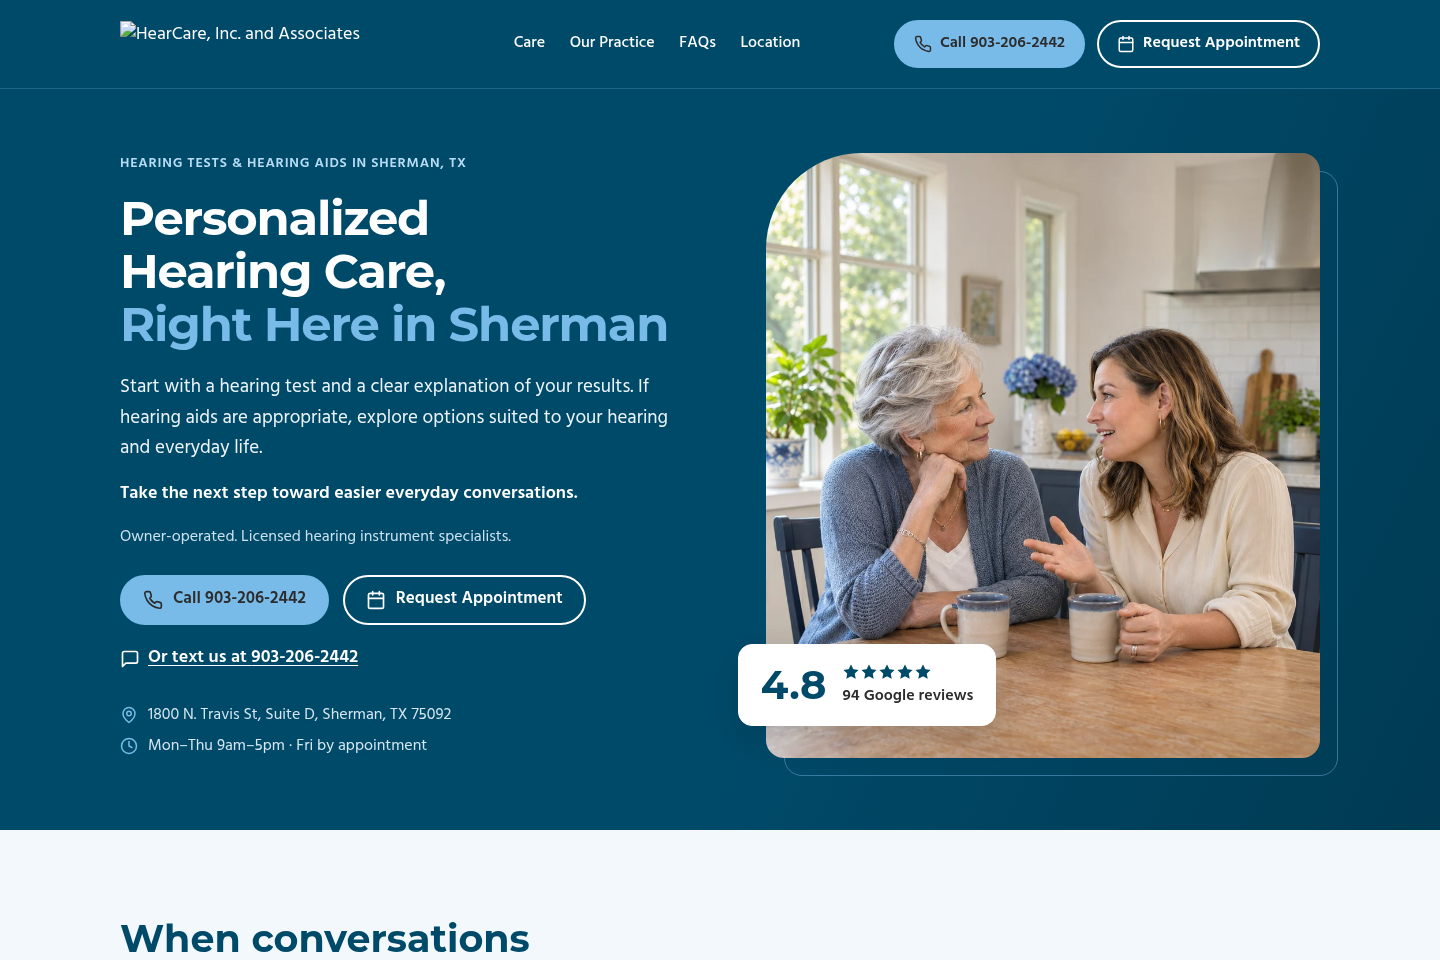
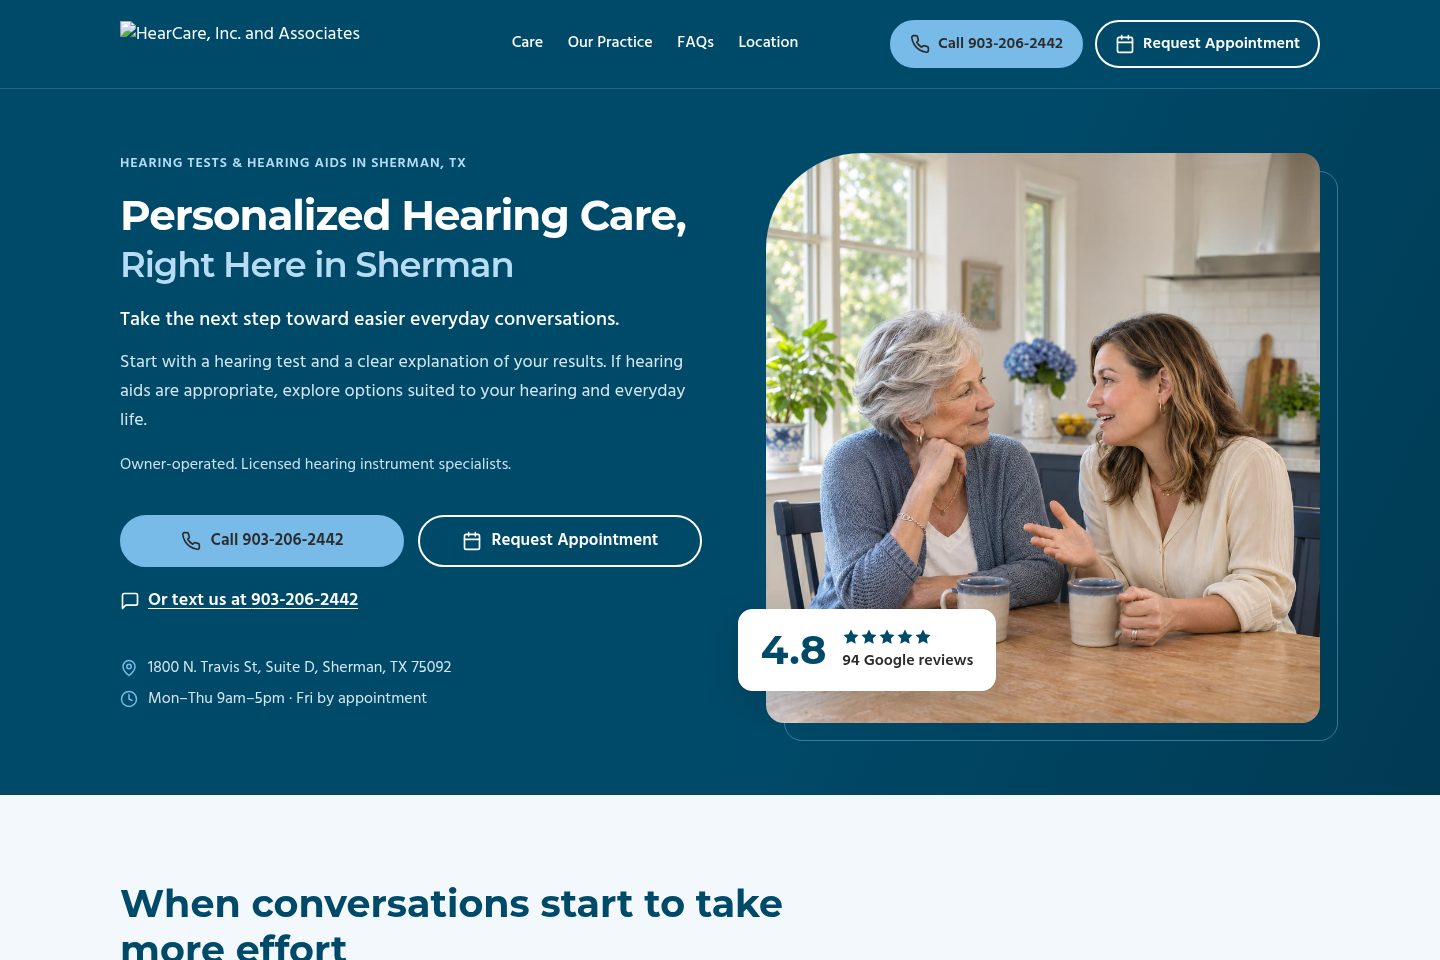
Refine heading hierarchy and align Hero and header actions

diff --git a/index.html b/index.html
@@ -85,7 +85,7 @@ body{
   color:var(--hc-ink); background:var(--hc-white);
 }
 img{ max-width:100%; height:auto; display:block; }
-h1,h2,h3{ font-family:var(--hc-head); color:var(--hc-navy); margin:0; text-wrap:balance; }
+h1,h2,h3{ font-family:var(--hc-head); color:var(--hc-navy); margin:0; text-wrap:wrap; }
 h1{ font-weight:700; font-size:clamp(2rem, 1.3rem + 2.6vw, 3.5rem); line-height:1.1; letter-spacing:-0.01em; }
 h2{ font-weight:700; font-size:clamp(1.625rem, 1.2rem + 1.4vw, 2.375rem); line-height:1.2; }
 h3{ font-weight:600; font-size:clamp(1.25rem, 1.1rem + .4vw, 1.4375rem); line-height:1.3; }
@@ -174,16 +174,20 @@ a:hover{ color:var(--hc-navy); }
 .hc-hero__grid{ display:grid; grid-template-columns:minmax(0,1.05fr) minmax(0,1fr); grid-template-areas:"copy media" "actions media" "facts media"; column-gap:64px; align-items:start; position:relative; }
 .hc-hero__text{ grid-area:copy; max-width:580px; }
 .hc-hero__eyebrow{ font-size:.875rem; line-height:1.5; font-weight:600; letter-spacing:.055em; text-transform:uppercase; color:#b7dcf5; }
-.hc-hero--split h1{ margin-top:18px; color:var(--hc-white); font-size:clamp(2.5rem,3.4vw,3rem); line-height:1.1; letter-spacing:-.025em; text-wrap:balance; }
-.hc-hero--split h1 span{ display:block; }
-.hc-hero--split .hc-hero__headline-local{ color:var(--hc-sky); }
-.hc-hero__lead{ margin-top:22px; font-size:1.1875rem; line-height:1.6; color:#edf5fa; }
-.hc-hero__benefit{ margin-top:16px; font-size:1.125rem; line-height:1.5; font-weight:600; color:var(--hc-white); }
+.hc-hero--split h1{ margin-top:18px; color:var(--hc-white); font-size:clamp(2rem,3vw,2.625rem); line-height:1.1; letter-spacing:-.025em; text-wrap:balance; }
+.hc-hero--split h1 > span{ display:block; }
+.hc-hero--split .hc-hero__headline-phrase{ white-space:nowrap; }
+.hc-hero--split .hc-hero__headline-local{ margin-top:8px; color:#b7dcf5; font-size:.84em; font-weight:600; }
+.hc-hero__lead{ margin-top:14px; font-size:1.125rem; line-height:1.6; color:#d6e7f1; }
+.hc-hero__benefit{ margin-top:20px; font-size:1.25rem; line-height:1.5; font-weight:500; color:var(--hc-white); }
 .hc-hero__trust{ margin-top:18px; font-size:1rem; line-height:1.5; color:#cce2ef; }
 .hc-hero__actions{ grid-area:actions; margin-top:26px; }
-.hc-hero--split .hc-btn{ border-radius:999px; min-height:50px; padding:12px 21px; }
-.hc-hero--split .hc-cta{ gap:12px 14px; }
-.hc-hero--split .hc-cta__text{ margin-top:0; }
+.hc-hero--split .hc-btn{ border-radius:999px; min-height:52px; padding:12px 16px; width:100%; text-align:center; }
+.hc-header .hc-btn,.hc-hero--split .hc-btn{ align-items:center; justify-content:center; }
+.hc-header .hc-btn > span,.hc-hero--split .hc-btn > span{ display:block; line-height:1.25; }
+.hc-header .hc-btn .hc-icon,.hc-hero--split .hc-btn .hc-icon{ width:20px; height:20px; display:block; flex:0 0 20px; }
+.hc-hero--split .hc-cta{ display:grid; grid-template-columns:repeat(2,minmax(0,1fr)); gap:12px 14px; }
+.hc-hero--split .hc-cta__text{ grid-column:1 / -1; margin-top:0; }
 .hc-hero--split .hc-textlink{ color:var(--hc-white); }
 .hc-hero--split .hc-textlink:hover{ color:var(--hc-sky); }
 .hc-hero--split :focus-visible{ outline:3px solid var(--hc-sky); outline-offset:4px; box-shadow:0 0 0 2px var(--hc-navy); }
@@ -199,7 +203,7 @@ a:hover{ color:var(--hc-navy); }
 .hc-badge__meta{ display:flex; flex-direction:column; gap:5px; font-size:1rem; line-height:1.3; }
 .hc-badge__meta strong{ font-weight:600; }
 .hc-badge__meta .hc-stars__base{ color:#c9d5dd; }
-@media (max-width:1199px) and (min-width:1024px){ .hc-hero__grid{ column-gap:42px; } .hc-hero--split h1{ font-size:2.75rem; } .hc-hero--split .hc-btn{ padding-inline:16px; } }
+@media (max-width:1199px) and (min-width:1024px){ .hc-hero__grid{ column-gap:42px; } .hc-hero--split h1{ font-size:clamp(2rem,3.25vw,2.5rem); } .hc-hero--split .hc-btn{ padding-inline:16px; } }
 @media (max-width:1023px){
   .hc-hero--split{ padding:44px 0 48px; }
   .hc-hero__grid{ grid-template-columns:minmax(0,1fr); grid-template-areas:"copy" "proof" "actions" "facts" "media"; }
@@ -220,11 +224,11 @@ a:hover{ color:var(--hc-navy); }
 @media (max-width:639px){
   .hc-hero--split{ padding:32px 0 36px; }
   .hc-hero__eyebrow{ letter-spacing:.025em; }
-  .hc-hero--split h1{ font-size:clamp(2rem,8.2vw,2.625rem); line-height:1.13; }
+  .hc-hero--split h1{ font-size:clamp(1.625rem,8.2vw,2.625rem); line-height:1.13; }
   .hc-hero__lead{ font-size:1.125rem; line-height:1.55; }
   .hc-hero__benefit{ font-size:1.0625rem; }
   .hc-hero__trust{ font-size:1rem; }
-  .hc-hero--split .hc-cta{ gap:10px; }
+  .hc-hero--split .hc-cta{ grid-template-columns:minmax(0,1fr); gap:10px; }
   .hc-hero--split .hc-btn{ white-space:normal; }
   .hc-hero--split .hc-textlink{ font-size:1rem; }
   .hc-facts{ font-size:1rem; }
@@ -514,9 +518,9 @@ a:hover{ color:var(--hc-navy); }
   <div class="hc-wrap hc-hero__grid">
     <div class="hc-hero__text">
       <p class="hc-hero__eyebrow">Hearing tests &amp; hearing aids in Sherman, TX</p>
-      <h1 id="hero-title"><span>Personalized Hearing Care,</span> <span class="hc-hero__headline-local">Right Here in Sherman</span></h1>
-      <p class="hc-hero__lead">Start with a hearing test and a clear explanation of your results. If hearing aids are appropriate, explore options suited to your hearing and everyday life.</p>
+      <h1 id="hero-title"><span><span class="hc-hero__headline-phrase">Personalized Hearing</span> Care,</span> <span class="hc-hero__headline-local">Right Here in Sherman</span></h1>
       <p class="hc-hero__benefit">Take the next step toward easier everyday conversations.</p>
+      <p class="hc-hero__lead">Start with a hearing test and a clear explanation of your results. If hearing aids are appropriate, explore options suited to your hearing and everyday life.</p>
       <p class="hc-hero__trust">Owner-operated. Licensed hearing instrument specialists.</p>
     </div>
 

diff --git a/review/hero-review.html b/review/hero-review.html
@@ -85,7 +85,7 @@ body{
   color:var(--hc-ink); background:var(--hc-white);
 }
 img{ max-width:100%; height:auto; display:block; }
-h1,h2,h3{ font-family:var(--hc-head); color:var(--hc-navy); margin:0; text-wrap:balance; }
+h1,h2,h3{ font-family:var(--hc-head); color:var(--hc-navy); margin:0; text-wrap:wrap; }
 h1{ font-weight:700; font-size:clamp(2rem, 1.3rem + 2.6vw, 3.5rem); line-height:1.1; letter-spacing:-0.01em; }
 h2{ font-weight:700; font-size:clamp(1.625rem, 1.2rem + 1.4vw, 2.375rem); line-height:1.2; }
 h3{ font-weight:600; font-size:clamp(1.25rem, 1.1rem + .4vw, 1.4375rem); line-height:1.3; }
@@ -174,16 +174,20 @@ a:hover{ color:var(--hc-navy); }
 .hc-hero__grid{ display:grid; grid-template-columns:minmax(0,1.05fr) minmax(0,1fr); grid-template-areas:"copy media" "actions media" "facts media"; column-gap:64px; align-items:start; position:relative; }
 .hc-hero__text{ grid-area:copy; max-width:580px; }
 .hc-hero__eyebrow{ font-size:.875rem; line-height:1.5; font-weight:600; letter-spacing:.055em; text-transform:uppercase; color:#b7dcf5; }
-.hc-hero--split h1{ margin-top:18px; color:var(--hc-white); font-size:clamp(2.5rem,3.4vw,3rem); line-height:1.1; letter-spacing:-.025em; text-wrap:balance; }
-.hc-hero--split h1 span{ display:block; }
-.hc-hero--split .hc-hero__headline-local{ color:var(--hc-sky); }
-.hc-hero__lead{ margin-top:22px; font-size:1.1875rem; line-height:1.6; color:#edf5fa; }
-.hc-hero__benefit{ margin-top:16px; font-size:1.125rem; line-height:1.5; font-weight:600; color:var(--hc-white); }
+.hc-hero--split h1{ margin-top:18px; color:var(--hc-white); font-size:clamp(2rem,3vw,2.625rem); line-height:1.1; letter-spacing:-.025em; text-wrap:balance; }
+.hc-hero--split h1 > span{ display:block; }
+.hc-hero--split .hc-hero__headline-phrase{ white-space:nowrap; }
+.hc-hero--split .hc-hero__headline-local{ margin-top:8px; color:#b7dcf5; font-size:.84em; font-weight:600; }
+.hc-hero__lead{ margin-top:14px; font-size:1.125rem; line-height:1.6; color:#d6e7f1; }
+.hc-hero__benefit{ margin-top:20px; font-size:1.25rem; line-height:1.5; font-weight:500; color:var(--hc-white); }
 .hc-hero__trust{ margin-top:18px; font-size:1rem; line-height:1.5; color:#cce2ef; }
 .hc-hero__actions{ grid-area:actions; margin-top:26px; }
-.hc-hero--split .hc-btn{ border-radius:999px; min-height:50px; padding:12px 21px; }
-.hc-hero--split .hc-cta{ gap:12px 14px; }
-.hc-hero--split .hc-cta__text{ margin-top:0; }
+.hc-hero--split .hc-btn{ border-radius:999px; min-height:52px; padding:12px 16px; width:100%; text-align:center; }
+.hc-header .hc-btn,.hc-hero--split .hc-btn{ align-items:center; justify-content:center; }
+.hc-header .hc-btn > span,.hc-hero--split .hc-btn > span{ display:block; line-height:1.25; }
+.hc-header .hc-btn .hc-icon,.hc-hero--split .hc-btn .hc-icon{ width:20px; height:20px; display:block; flex:0 0 20px; }
+.hc-hero--split .hc-cta{ display:grid; grid-template-columns:repeat(2,minmax(0,1fr)); gap:12px 14px; }
+.hc-hero--split .hc-cta__text{ grid-column:1 / -1; margin-top:0; }
 .hc-hero--split .hc-textlink{ color:var(--hc-white); }
 .hc-hero--split .hc-textlink:hover{ color:var(--hc-sky); }
 .hc-hero--split :focus-visible{ outline:3px solid var(--hc-sky); outline-offset:4px; box-shadow:0 0 0 2px var(--hc-navy); }
@@ -199,7 +203,7 @@ a:hover{ color:var(--hc-navy); }
 .hc-badge__meta{ display:flex; flex-direction:column; gap:5px; font-size:1rem; line-height:1.3; }
 .hc-badge__meta strong{ font-weight:600; }
 .hc-badge__meta .hc-stars__base{ color:#c9d5dd; }
-@media (max-width:1199px) and (min-width:1024px){ .hc-hero__grid{ column-gap:42px; } .hc-hero--split h1{ font-size:2.75rem; } .hc-hero--split .hc-btn{ padding-inline:16px; } }
+@media (max-width:1199px) and (min-width:1024px){ .hc-hero__grid{ column-gap:42px; } .hc-hero--split h1{ font-size:clamp(2rem,3.25vw,2.5rem); } .hc-hero--split .hc-btn{ padding-inline:16px; } }
 @media (max-width:1023px){
   .hc-hero--split{ padding:44px 0 48px; }
   .hc-hero__grid{ grid-template-columns:minmax(0,1fr); grid-template-areas:"copy" "proof" "actions" "facts" "media"; }
@@ -220,11 +224,11 @@ a:hover{ color:var(--hc-navy); }
 @media (max-width:639px){
   .hc-hero--split{ padding:32px 0 36px; }
   .hc-hero__eyebrow{ letter-spacing:.025em; }
-  .hc-hero--split h1{ font-size:clamp(2rem,8.2vw,2.625rem); line-height:1.13; }
+  .hc-hero--split h1{ font-size:clamp(1.625rem,8.2vw,2.625rem); line-height:1.13; }
   .hc-hero__lead{ font-size:1.125rem; line-height:1.55; }
   .hc-hero__benefit{ font-size:1.0625rem; }
   .hc-hero__trust{ font-size:1rem; }
-  .hc-hero--split .hc-cta{ gap:10px; }
+  .hc-hero--split .hc-cta{ grid-template-columns:minmax(0,1fr); gap:10px; }
   .hc-hero--split .hc-btn{ white-space:normal; }
   .hc-hero--split .hc-textlink{ font-size:1rem; }
   .hc-facts{ font-size:1rem; }
@@ -514,9 +518,9 @@ a:hover{ color:var(--hc-navy); }
   <div class="hc-wrap hc-hero__grid">
     <div class="hc-hero__text">
       <p class="hc-hero__eyebrow">Hearing tests &amp; hearing aids in Sherman, TX</p>
-      <h1 id="hero-title"><span>Personalized Hearing Care,</span> <span class="hc-hero__headline-local">Right Here in Sherman</span></h1>
-      <p class="hc-hero__lead">Start with a hearing test and a clear explanation of your results. If hearing aids are appropriate, explore options suited to your hearing and everyday life.</p>
+      <h1 id="hero-title"><span><span class="hc-hero__headline-phrase">Personalized Hearing</span> Care,</span> <span class="hc-hero__headline-local">Right Here in Sherman</span></h1>
       <p class="hc-hero__benefit">Take the next step toward easier everyday conversations.</p>
+      <p class="hc-hero__lead">Start with a hearing test and a clear explanation of your results. If hearing aids are appropriate, explore options suited to your hearing and everyday life.</p>
       <p class="hc-hero__trust">Owner-operated. Licensed hearing instrument specialists.</p>
     </div>
 

diff --git a/DESIGN_SYSTEM.md b/DESIGN_SYSTEM.md
@@ -165,3 +165,7 @@ On mobile preserve the same persuasion order: service/action first, short recogn
 Use semantic landmarks, one H1, logical headings, visible keyboard focus, descriptive links, and labelled controls. Test 200% text zoom, narrow 320px layout, and representative 375/390px, 768px, 1,024px, and 1,440px viewports. Verify no horizontal scroll or inaccessible fixed overlays. Respect reduced-motion; any transitions should be brief and nonessential. No scroll hijacking, parallax, mandatory entrance animations, or autoplay media.
 
 During Step 4/5, inspect actual rendering rather than relying on code or open ports. Verify contact links against the temporary number; confirm all appointment triggers, iframe behavior, Escape/focus return, FAQ keyboard access, real image resolution, Google/map links, contrast, and missing asset treatment. Do not interpret rendering as successful lead delivery or improved conversion performance. Public completion depends on verified review material, asset suitability, integration checks, and explicit publication authorization.
+
+## Approved hierarchy and button refinement
+
+The user requested improved visual hierarchy, removal of the break after “Personalized,” and button alignment fixes. Keep “Personalized Hearing” together, allow the remaining headline to wrap responsively, and make the local phrase smaller/lighter than the primary message. Place the existing conversation benefit before the longer test-first explanation, preserving all approved wording. Use equal-width/equal-height Hero action columns on desktop, a single column on mobile, and consistent centered icon/label groups in Hero/header buttons. These refinements remain pending rendered approval; no section is locked. Preserve all destinations and integration hooks.

diff --git a/CONTENT_DIRECTION.md b/CONTENT_DIRECTION.md
@@ -149,3 +149,7 @@ Footer: **Privacy Policy** → https://hearcareinc.com/privacy-policy/; **Visit 
 ## Final editorial review
 
 Check each major claim against RESEARCH.md source IDs; flag missing support rather than inventing it. Confirm the approved temporary number and all destinations agree. Read headlines alone for service, outcome, trust, process, payment, and action continuity. Preserve candidate/verified distinctions and record unresolved reviews, assets, ad inputs, and form behavior. Writing the first draft and selecting a builder remain a separate approval gate.
+
+## Approved hierarchy and button refinement
+
+The user requested improved visual hierarchy, removal of the break after “Personalized,” and button alignment fixes. Keep “Personalized Hearing” together, allow the remaining headline to wrap responsively, and make the local phrase smaller/lighter than the primary message. Place the existing conversation benefit before the longer test-first explanation, preserving all approved wording. Use equal-width/equal-height Hero action columns on desktop, a single column on mobile, and consistent centered icon/label groups in Hero/header buttons. These refinements remain pending rendered approval; no section is locked. Preserve all destinations and integration hooks.

diff --git a/review/HERO_REVIEW.md b/review/HERO_REVIEW.md
@@ -46,3 +46,7 @@ In the preceding Hero rebuild, no other section, header, form embed, integration
 ## Next gate
 
 Ask the user to approve the rendered Hero, request adjustments, or try another direction. Do not lock it or start a new section automatically. After explicit rendered approval, select the strongest next section, explain the transition, and request that section's desktop/mobile screenshots before its individual review.
+
+## Subsequent hierarchy refinement
+
+User requested removal of the break after Personalized, improved hierarchy and button alignment. The primary phrase now stays together; desktop sizing accommodates the full primary headline when space allows. Local emphasis is subordinate; the existing conversation benefit precedes the detailed test-first explanation. Hero action buttons use matching grid columns and equal height, with consistent icon/label centering in Hero/header controls. Copy, evidence, destinations and integration scripts are preserved. Latest screenshots and portable HTML reflect this refinement. Still awaiting rendered approval.

diff --git a/PAGE_STRATEGY.md b/PAGE_STRATEGY.md
@@ -186,3 +186,7 @@ Use a medium-length, scannable page. Target roughly 900–1,250 authored words e
 ## Next gate
 
 These documents guide the first draft; they do not authorize building or publication. Present a separate Claude/Codex recommendation and wait for the user's builder selection before Step 4.
+
+## Approved hierarchy and button refinement
+
+The user requested improved visual hierarchy, removal of the break after “Personalized,” and button alignment fixes. Keep “Personalized Hearing” together, allow the remaining headline to wrap responsively, and make the local phrase smaller/lighter than the primary message. Place the existing conversation benefit before the longer test-first explanation, preserving all approved wording. Use equal-width/equal-height Hero action columns on desktop, a single column on mobile, and consistent centered icon/label groups in Hero/header buttons. These refinements remain pending rendered approval; no section is locked. Preserve all destinations and integration hooks.
